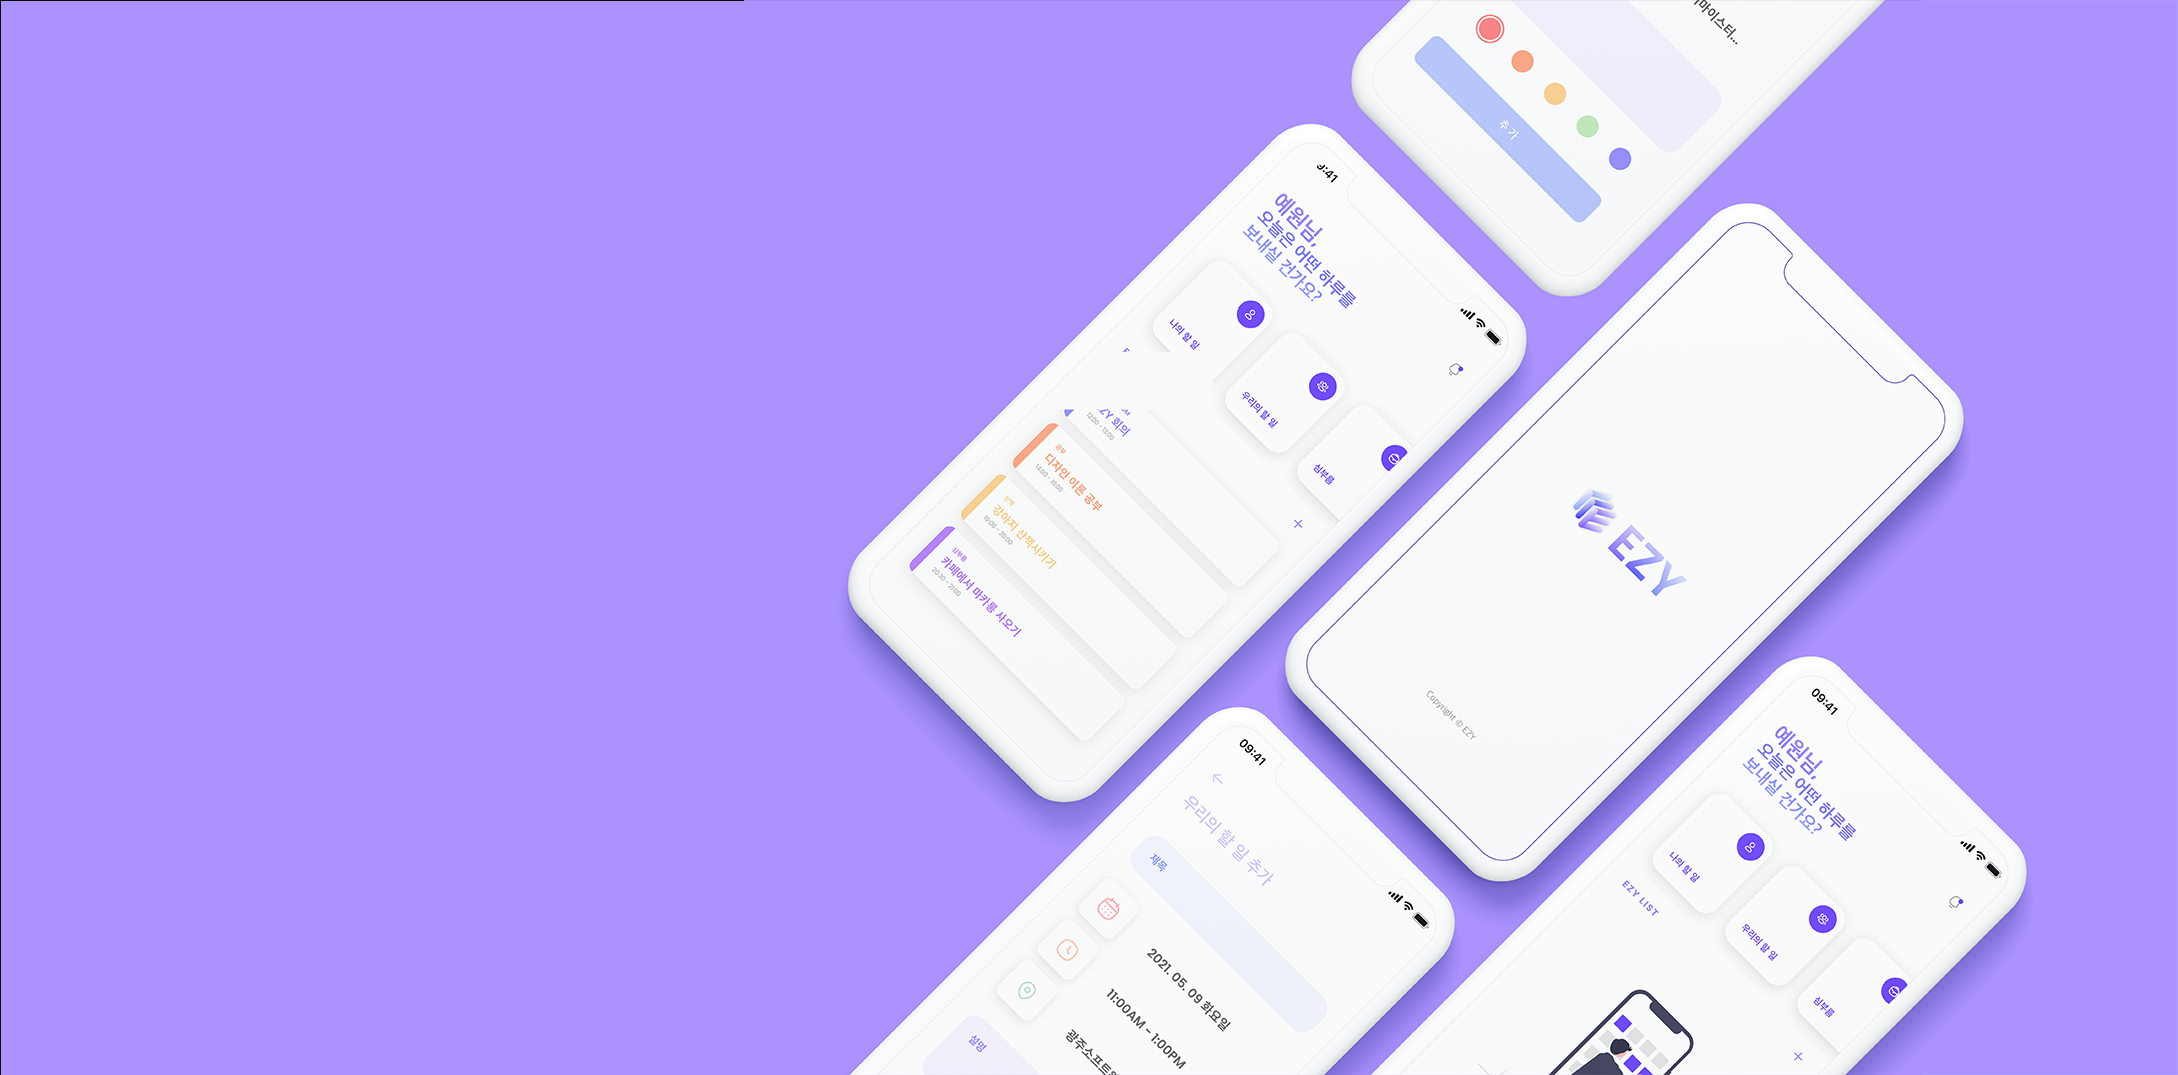
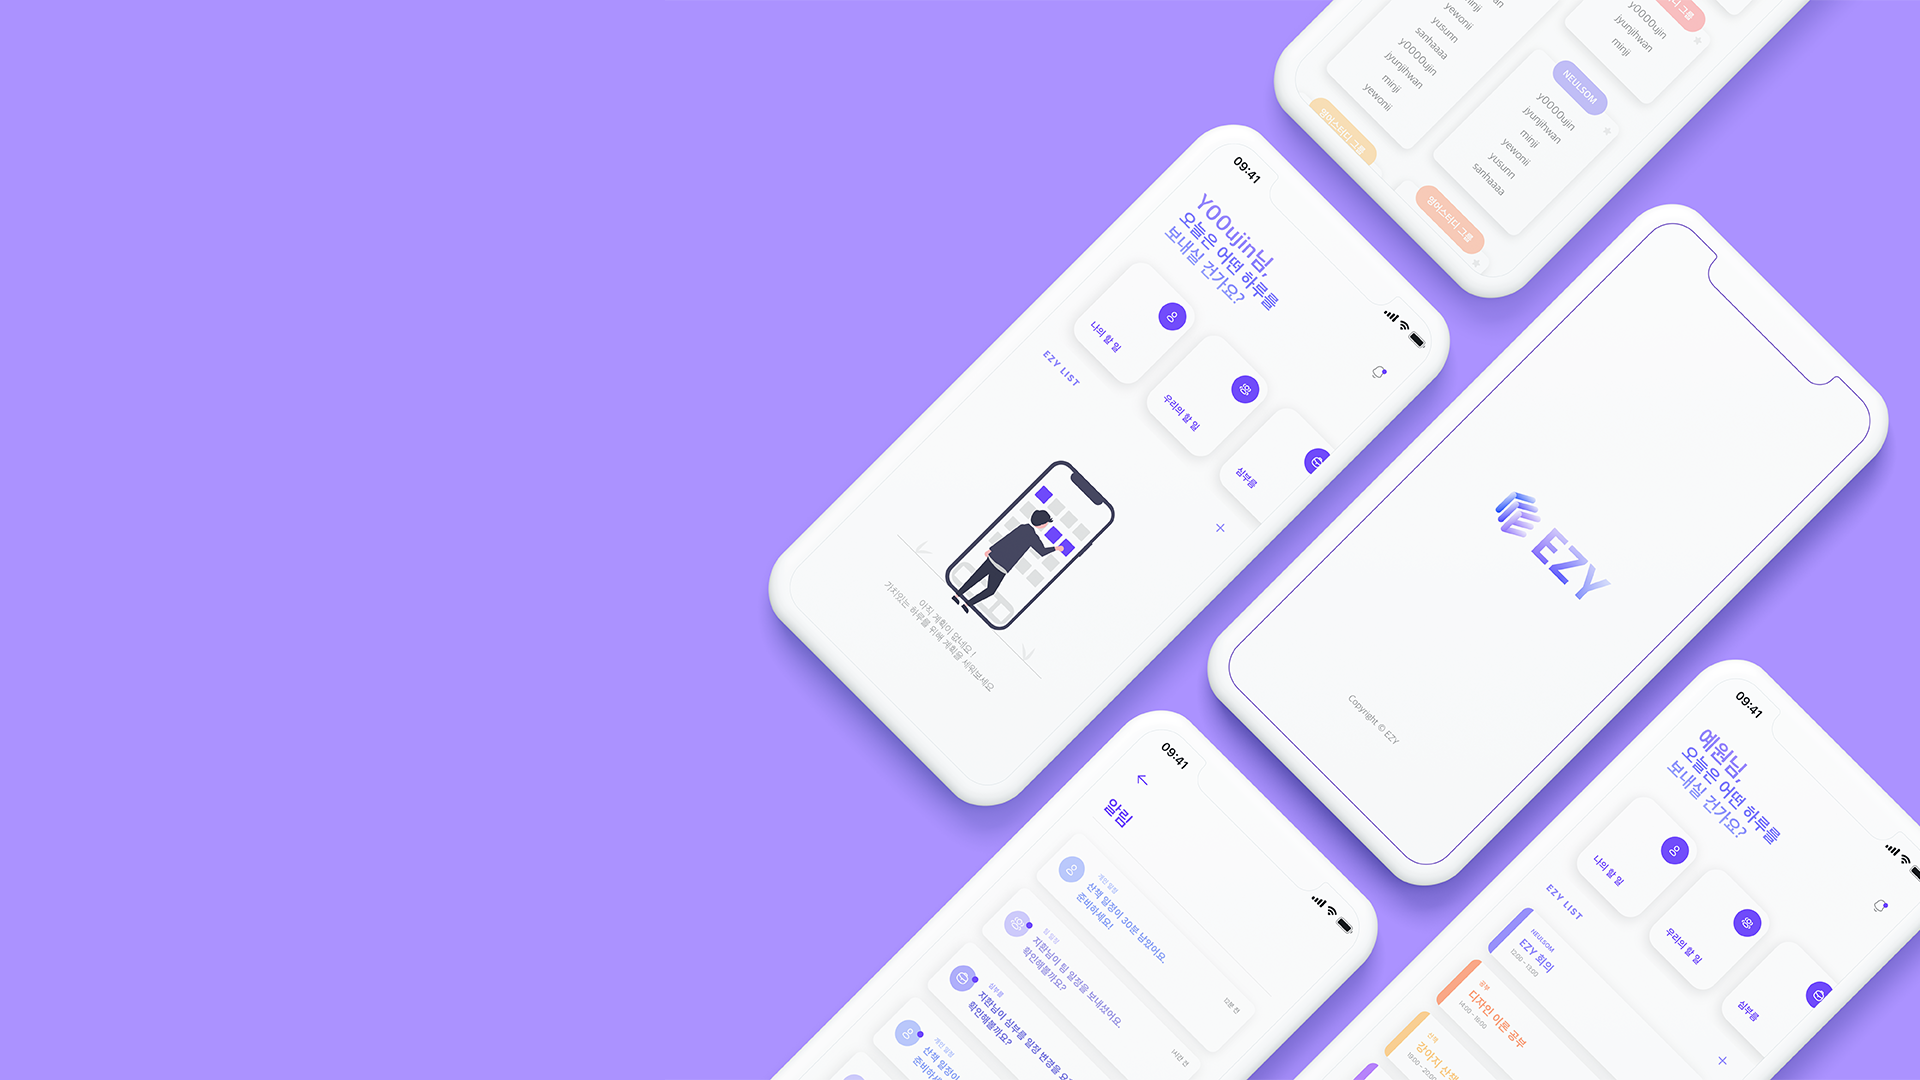
이미지 뿅

diff --git a/ezy-client/src/App.js b/ezy-client/src/App.js
@@ -9,7 +9,6 @@ const GlobalStyle = createGlobalStyle`
         padding: 0;
         background-image: url(${bg01});
         background-repeat: no-repeat;
-        background-size: 100% 100vh;
         background-color: #ab92ff;
     }
 `;

diff --git a/ezy-client/src/Components/Section1/style.js b/ezy-client/src/Components/Section1/style.js
@@ -4,8 +4,6 @@ export const MainSection = styled.div `
     display: flex;
     justify-content: center;
     align-items: center;
-    width: 100%;
-    height: 100vh;
     /* background-color: #6B40FF; */
     color: white;
 `;
